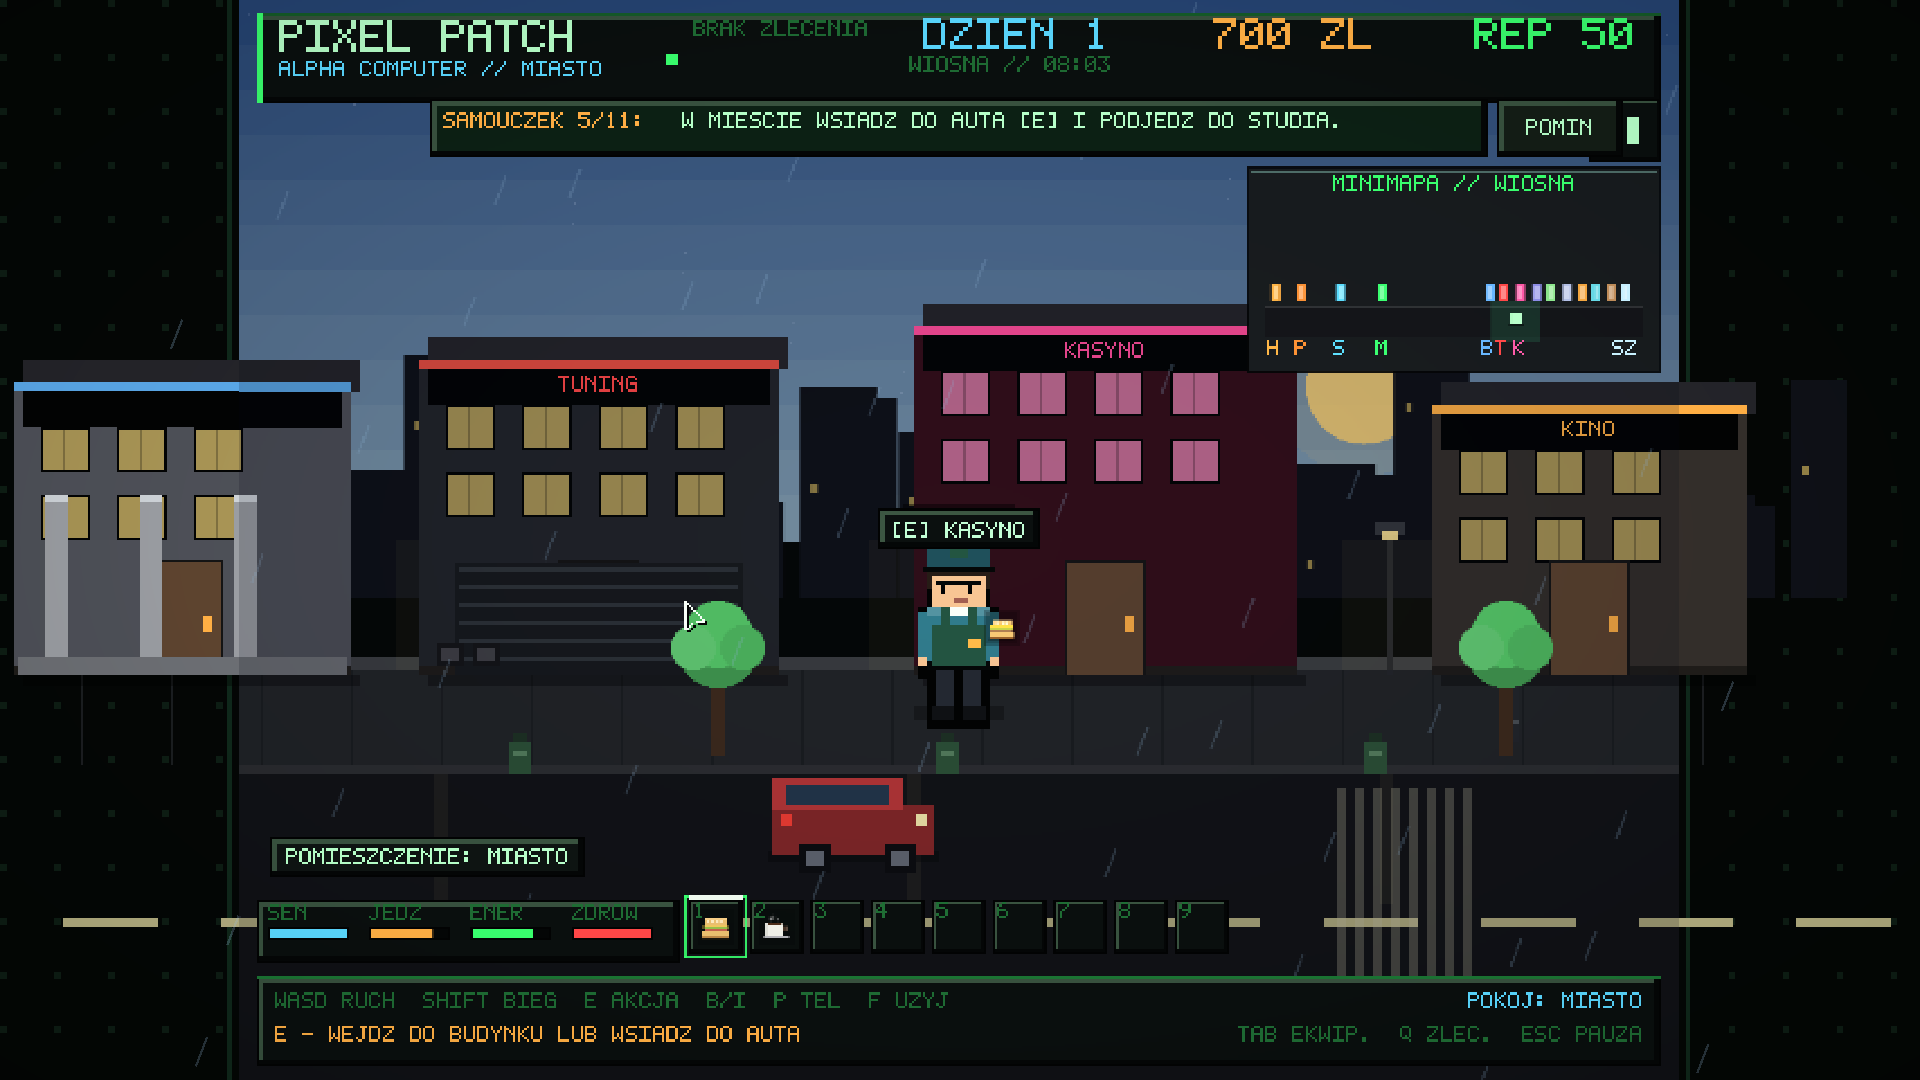
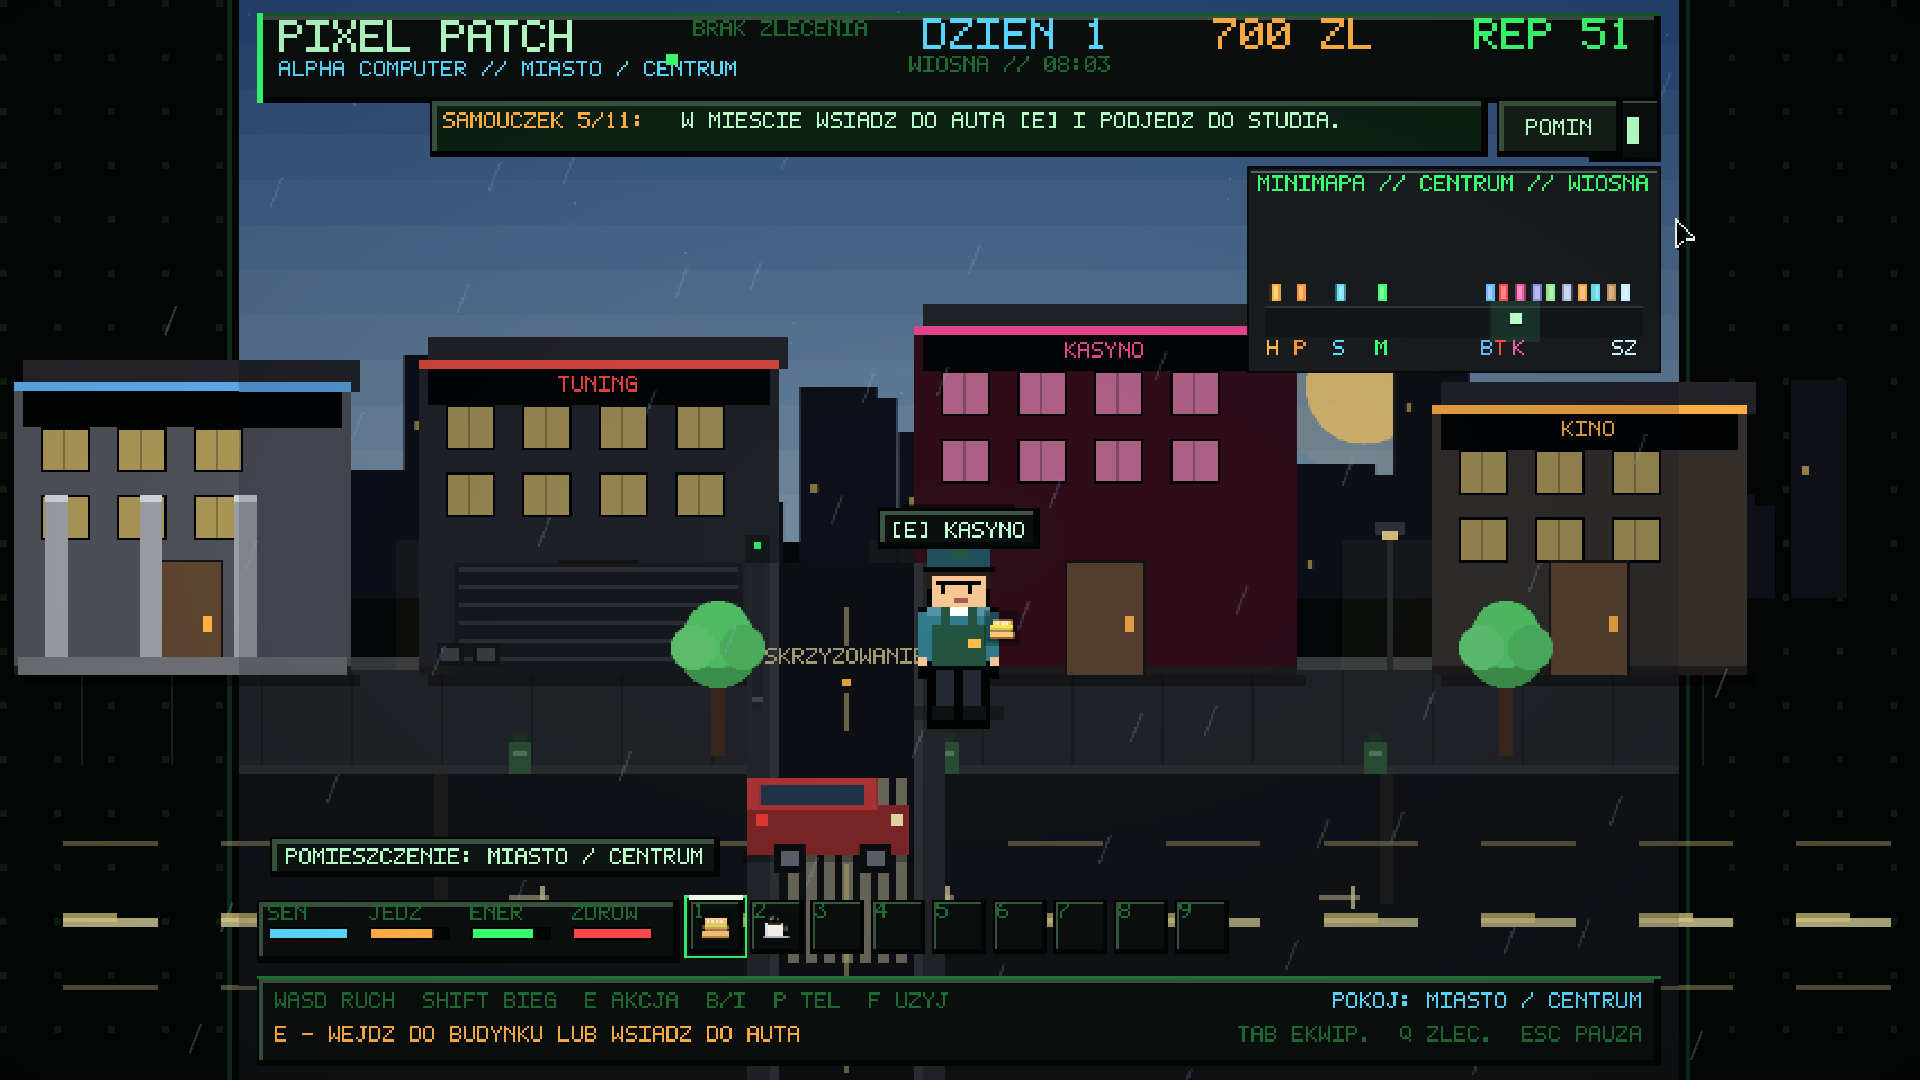
Snapshot 1: nowe mechaniki, wersja i screeny

diff --git a/index.html b/index.html
@@ -3,11 +3,11 @@
 <head>
   <meta charset="utf-8">
   <meta name="viewport" content="width=device-width, initial-scale=1">
-  <title>Pixel Patch — dwóch ziomków, rok, jedna gra</title>
+  <title>Pixel Patch — Snapshot 1. Dwóch ziomków, rok, jedna gra</title>
   <meta name="description" content="Pixel Patch to pixel-artowy symulator serwisu komputerowego. TZNsec i K2STUDIO rzucili sobie wyzwanie: w 365 dni zrobić grę od zera i doprowadzić ją do premiery na Steam. Zobacz devlog, wersje do pobrania i plan roku.">
   <meta name="theme-color" content="#050a08">
-  <meta property="og:title" content="Pixel Patch — dwóch ziomków, rok, jedna gra">
-  <meta property="og:description" content="Wyzwanie 365 dni: od pustego projektu do premiery na Steam. Pixel-artowy symulator serwisu komputerowego. Pobierz Alpha Computer.">
+  <meta property="og:title" content="Pixel Patch — Snapshot 1. Dwóch ziomków, rok, jedna gra">
+  <meta property="og:description" content="Wyzwanie 365 dni: od pustego projektu do premiery na Steam. Pixel-artowy symulator serwisu komputerowego. Pobierz Snapshot 1.">
   <meta property="og:type" content="website">
   <meta property="og:image" content="assets/alpha-coop.png">
   <link rel="icon" href="assets/logo.png" type="image/png">
@@ -21,7 +21,7 @@
     <div class="splash-inner">
       <div class="splash-brand">
         <img src="assets/logo.png" alt="" width="56" height="56">
-        <span class="splash-logo"><b>PIXEL PATCH</b><small>Alpha Computer · 0.11-alpha</small></span>
+        <span class="splash-logo"><b>PIXEL PATCH</b><small>Alpha Computer · Snapshot 1</small></span>
       </div>
 
       <div class="duo">
@@ -100,7 +100,7 @@
       <img src="assets/logo.png" alt="" width="42" height="42">
       <span>
         <b>PIXEL PATCH</b>
-        <small>Alpha Computer · 0.11-alpha</small>
+        <small>Alpha Computer · Snapshot 1</small>
       </span>
     </a>
 
@@ -123,7 +123,7 @@
     <!-- ============================ HERO ============================ -->
     <section class="hero wrap">
       <div class="hero-copy">
-        <p class="eyebrow"><span class="live-dot"></span> WYZWANIE 365 DNI · BUILD 0.11-ALPHA</p>
+        <p class="eyebrow"><span class="live-dot"></span> WYZWANIE 365 DNI · BUILD SNAPSHOT 1</p>
 
         <p class="hero-logo" aria-label="PIXEL PATCH">
           <canvas id="pixelLogo" width="480" height="64" aria-hidden="true">PIXEL PATCH</canvas>
@@ -136,7 +136,7 @@
         <div class="hero-day" style="--d:.68s">
           <span class="live-dot"></span>
           <span>DZIEŃ <b id="hero-day">1</b> Z 365</span>
-          <span class="hero-day-sub">publiczny build 0.11-alpha</span>
+          <span class="hero-day-sub">publiczny build Snapshot 1</span>
         </div>
 
         <p class="lead" style="--d:.80s">
@@ -148,7 +148,7 @@
         </p>
 
         <div class="hero-actions" style="--d:.92s">
-          <a class="btn btn-primary" href="#pobierz">Pobierz Alpha Computer</a>
+          <a class="btn btn-primary" href="#pobierz">Pobierz Snapshot 1</a>
           <a class="btn btn-ghost" href="#o-projekcie">Poznaj projekt</a>
         </div>
 
@@ -291,10 +291,11 @@
     <section class="section wrap" id="nowosci">
       <div class="section-head reveal">
         <p class="kicker">Nowości</p>
-        <h2>Alpha Computer 0.11-alpha</h2>
+        <h2>Alpha Computer — Snapshot 1</h2>
         <p class="lede">
-          Największy update od początku projektu. Doszła wspólna gra, zmieniło się
-          miasto, doszły wnętrza i pogoda. Poniżej rzeczy, które warto sprawdzić.
+          Największy skok mechanik od początku projektu. Płyta główna w naprawie,
+          prawdziwe skrzyżowania, podatki, umowy z podpisami i trzy dystrykty miasta.
+          Do tego późny poradnik i klient, który potrafi odrzucić zbyt droga ofertę.
         </p>
       </div>
 
@@ -315,6 +316,30 @@
         </article>
 
         <article class="update-card reveal">
+          <h3>Płyta główna pod ręką</h3>
+          <p>W naprawie widzisz PCB, CPU, RAM, GPU, PSU i dysk. Jakość, combo i błędy wpływają na wypłatę.</p>
+          <div class="mini-tags"><span>PCB</span><span>JAKOŚĆ</span><span>COMBO</span></div>
+        </article>
+
+        <article class="update-card reveal">
+          <h3>Skrzyżowania i prawdziwe pasy</h3>
+          <p>Drogi poprzeczne, przejścia i sygnalizacja. Auto trzyma się prawego pasa, można zawrócić i poczuć prędkość.</p>
+          <div class="mini-tags"><span>SKRZYŻOWANIA</span><span>PASY</span><span>F1</span></div>
+        </article>
+
+        <article class="update-card reveal">
+          <h3>Podatki i umowy</h3>
+          <p>Co tydzień urząd skarbowy wystawia podatek. W banku go zapłacisz, a każda naprawa kończy się umową z podpisem.</p>
+          <div class="mini-tags"><span>PODATKI</span><span>UMOWY</span><span>BANK</span></div>
+        </article>
+
+        <article class="update-card reveal">
+          <h3>Późny poradnik i dystrykty</h3>
+          <p>Po pierwszym zleceniu włącza się poradnik krok po kroku. Dworzec zmienia dystrykt: Centrum, Port i Stare Miasto.</p>
+          <div class="mini-tags"><span>PORADNIK</span><span>3 DYSTRYKTY</span></div>
+        </article>
+
+        <article class="update-card reveal">
           <h3>Dzień, noc i pory roku</h3>
           <p>Świt, południe, wieczór i noc. Wiosenny deszcz, letnie światło, jesienne liście i zimowy śnieg.</p>
           <div class="mini-tags"><span>DZIEŃ / NOC</span><span>4 PORY ROKU</span></div>
@@ -328,7 +353,7 @@
 
         <article class="update-card reveal">
           <h3>Jazda z mapą i zawracaniem</h3>
-          <p>Widok F1 ma minimapę, budynki po bokach i zawracanie (<kbd>R</kbd>). Przy hamowaniu <kbd>A/D</kbd> też obraca auto. Do tego smugi, wibracja i dopalacz przy dużej prędkości.</p>
+          <p>Minimapa, budynki po bokach i zawracanie (<kbd>R</kbd>). Do tego smugi, wibracja i dopalacz przy dużej prędkości.</p>
           <div class="mini-tags"><span>MINIMAPA</span><span>ZAWROT</span><span>EFEKTY</span></div>
         </article>
 
@@ -336,12 +361,6 @@
           <h3>Potrącenia i zdrowie</h3>
           <p>Na ulicy trzeba uważać. Auto może Cię potrącić, a w szpitalu zapłacisz za leczenie albo skorzystasz z NFZ.</p>
           <div class="mini-tags"><span>RYZYKO</span><span>SZPITAL</span></div>
-        </article>
-
-        <article class="update-card reveal">
-          <h3>Q na zlecenia</h3>
-          <p>Przełączasz aktywne zlecenie bez wchodzenia do warsztatu — na PC klawiszem <kbd>Q</kbd>, na telefonie przyciskiem.</p>
-          <div class="mini-tags"><span>PC</span><span>MOBILE</span></div>
         </article>
       </div>
     </section>
@@ -359,7 +378,25 @@
 
       <div class="versions">
         <article class="version-card version-new reveal">
-          <div class="vc-top"><span class="vc-tag new">NAJNOWSZA</span><span class="vc-ver">v0.11-alpha</span></div>
+          <div class="vc-top"><span class="vc-tag new">NAJNOWSZA</span><span class="vc-ver">v0.12-snapshot1</span></div>
+          <h3>Snapshot 1</h3>
+          <p class="vc-sub">Mechaniki, miasto i naprawy w jednym dużym skoku.</p>
+          <ul>
+            <li>Płyta główna, części, jakość i combo w naprawie</li>
+            <li>Skrzyżowania, pasy i prawy pas jazdy</li>
+            <li>Podatki, bank i umowy z podpisami</li>
+            <li>Późny poradnik krok po kroku</li>
+            <li>Trzy dystrykty: Centrum, Port, Stare Miasto</li>
+            <li>Klienci mogą odrzucić ofertę</li>
+          </ul>
+          <div class="vc-actions">
+            <a class="btn btn-primary" href="https://github.com/tznsec/PixelPatch/releases/download/v0.12-snapshot1/PixelPatch.exe">Pobierz PC</a>
+            <a class="btn btn-ghost" href="https://github.com/tznsec/PixelPatch/releases/download/v0.12-snapshot1/PixelPatch.apk">Pobierz APK</a>
+          </div>
+        </article>
+
+        <article class="version-card reveal">
+          <div class="vc-top"><span class="vc-tag">POPRZEDNIA</span><span class="vc-ver">v0.11-alpha</span></div>
           <h3>Alpha Computer</h3>
           <p class="vc-sub">Co-op, pogoda, wnętrza, minimapa i zdrowie.</p>
           <ul>
@@ -367,19 +404,17 @@
             <li>Dzień/noc i cztery pory roku</li>
             <li>Kasyno i szpital w środku</li>
             <li>Minimapa, zawracanie i efekty szybkiej jazdy</li>
-            <li>Potrącenia, zdrowie i leczenie</li>
-            <li>Q do przełączania zleceń</li>
           </ul>
           <div class="vc-actions">
-            <a class="btn btn-primary" href="https://github.com/tznsec/PixelPatch/releases/download/v0.11-alpha/PixelPatch.exe">Pobierz PC</a>
-            <a class="btn btn-ghost" href="https://github.com/tznsec/PixelPatch/releases/download/v0.11-alpha/PixelPatch.apk">Pobierz APK</a>
+            <a class="btn btn-ghost" href="https://github.com/tznsec/PixelPatch/releases/download/v0.11-alpha/PixelPatch.exe">PC</a>
+            <a class="btn btn-ghost" href="https://github.com/tznsec/PixelPatch/releases/download/v0.11-alpha/PixelPatch.apk">APK</a>
           </div>
         </article>
 
         <article class="version-card reveal">
-          <div class="vc-top"><span class="vc-tag">POPRZEDNIA</span><span class="vc-ver">v0.10-alpha</span></div>
+          <div class="vc-top"><span class="vc-tag old">STARSZA</span><span class="vc-ver">v0.10-alpha</span></div>
           <h3>Alpha Computer</h3>
-          <p class="vc-sub">Pierwszy duży update: telefon, pracownicy, tiered magazyn i F1.</p>
+          <p class="vc-sub">Telefon, pracownicy, magazyn tierów i widok F1.</p>
           <ul>
             <li>Naprawy dotykowe na Androidzie</li>
             <li>Pracownicy i auto-naprawa</li>
@@ -393,7 +428,7 @@
         </article>
 
         <article class="version-card reveal">
-          <div class="vc-top"><span class="vc-tag old">STARSZA</span><span class="vc-ver">v0.9.7</span></div>
+          <div class="vc-top"><span class="vc-tag old">ARCHIWALNA</span><span class="vc-ver">v0.9.7</span></div>
           <h3>Garage Days</h3>
           <p class="vc-sub">Początek projektu. Zostaje online.</p>
           <ul>
@@ -426,6 +461,18 @@
         <button class="shot reveal" data-src="assets/alpha-coop.png" aria-label="Powiększ: wspólna gra">
           <img src="assets/alpha-coop.png" alt="Wspólna gra i auto innego gracza" loading="lazy" width="1280" height="960">
           <span>Co-op · V0idVex i Kormeliuszk</span>
+        </button>
+        <button class="shot reveal" data-src="assets/snapshot-repair.png" aria-label="Powiększ: płyta główna w naprawie">
+          <img src="assets/snapshot-repair.png" alt="Płyta główna i części w naprawie" loading="lazy" width="1280" height="960">
+          <span>Naprawa · płyta główna</span>
+        </button>
+        <button class="shot reveal" data-src="assets/snapshot-contracts.png" aria-label="Powiększ: umowy i podpisy">
+          <img src="assets/snapshot-contracts.png" alt="Umowy i podpisy klientów" loading="lazy" width="1280" height="960">
+          <span>Umowy i podpisy</span>
+        </button>
+        <button class="shot reveal" data-src="assets/snapshot-district.png" aria-label="Powiększ: dystrykt Port">
+          <img src="assets/snapshot-district.png" alt="Dystrykt Port w mieście" loading="lazy" width="1280" height="960">
+          <span>Dystrykt Port</span>
         </button>
         <button class="shot reveal" data-src="assets/alpha-city.png" aria-label="Powiększ: miasto w dzień">
           <img src="assets/alpha-city.png" alt="Miasto w dzień" loading="lazy" width="1280" height="960">
@@ -463,7 +510,7 @@
         </details>
         <details class="reveal">
           <summary>Czy da się grać we dwójkę?</summary>
-          <p>Tak. W 0.11-alpha jest co-op przez LAN lub Tailscale: wspólny portfel, te same zlecenia, czat i auta innych graczy. Na PC czat otwierasz klawiszem T.</p>
+          <p>Tak. W Snapshot 1 jest co-op przez LAN lub Tailscale: wspólny portfel, te same zlecenia, czat i auta innych graczy. Na PC czat otwierasz klawiszem T.</p>
         </details>
         <details class="reveal">
           <summary>Dlaczego APK jest debug?</summary>
@@ -471,7 +518,7 @@
         </details>
         <details class="reveal">
           <summary>Co się dzieje ze starszymi wersjami?</summary>
-          <p>Zostają na GitHub Releases. Możesz pobrać 0.10-alpha albo 0.9.7 i porównać, jak gra wyglądała wcześniej.</p>
+          <p>Zostają na GitHub Releases. Możesz pobrać 0.11-alpha, 0.10-alpha albo 0.9.7 i porównać, jak gra wyglądała wcześniej.</p>
         </details>
         <details class="reveal">
           <summary>Jak śledzić postęp?</summary>
@@ -485,14 +532,14 @@
       <div class="download-card reveal">
         <div>
           <p class="kicker">Pobierz</p>
-          <h2>Zagraj w Alpha Computer 0.11-alpha</h2>
+          <h2>Zagraj w Alpha Computer — Snapshot 1</h2>
           <p>
-            Windows 10/11 x64 albo Android 7+ (arm64). Najnowszy build zawiera
-            co-op, pogodę, wnętrza i minimapę. Starsze wersje są niżej.
+            Windows 10/11 x64 albo Android 7+ (arm64). Snapshot 1 zawiera płytę główną,
+            skrzyżowania, podatki, umowy i trzy dystrykty. Starsze wersje są niżej.
           </p>
           <div class="download-actions">
-            <a class="btn btn-primary" href="https://github.com/tznsec/PixelPatch/releases/download/v0.11-alpha/PixelPatch.exe">Pobierz na PC</a>
-            <a class="btn btn-ghost" href="https://github.com/tznsec/PixelPatch/releases/download/v0.11-alpha/PixelPatch.apk">Pobierz APK</a>
+            <a class="btn btn-primary" href="https://github.com/tznsec/PixelPatch/releases/download/v0.12-snapshot1/PixelPatch.exe">Pobierz na PC</a>
+            <a class="btn btn-ghost" href="https://github.com/tznsec/PixelPatch/releases/download/v0.12-snapshot1/PixelPatch.apk">Pobierz APK</a>
             <a class="btn btn-text" href="https://github.com/tznsec/PixelPatch/releases" target="_blank" rel="noopener">Wszystkie wydania ↗</a>
           </div>
         </div>

diff --git a/script.js b/script.js
@@ -28,7 +28,7 @@
   // ------------------------------------------------------------ odliczanie
   const START = new Date(2026, 9, 25, 0, 0, 0); // 25.10.2026
   const END = new Date(2027, 9, 25, 0, 0, 0);   // 25.10.2027
-  const BUILD_DATE = new Date(2026, 9, 26, 0, 0, 0); // build 0.11-alpha
+  const BUILD_DATE = new Date(2026, 9, 27, 0, 0, 0); // build Snapshot 1
 
   const cdD = document.getElementById("cd-d");
   const cdH = document.getElementById("cd-h");

diff --git a/pixel-intro.js b/pixel-intro.js
@@ -6,7 +6,7 @@
   const splash = document.getElementById("splash");
   const splashSkip = document.getElementById("splash-skip");
   const replayIntro = document.getElementById("replay-intro");
-  const INTRO_KEY = "pixel_patch_intro_11";
+  const INTRO_KEY = "pixel_patch_intro_12";
   let introTimers = [];
   let heroStarted = false;
 

diff --git a/styles.css b/styles.css
@@ -639,7 +639,7 @@ kbd {
 /* ------------------------------------------------------------ versions */
 .versions {
   display: grid;
-  grid-template-columns: repeat(3, minmax(0, 1fr));
+  grid-template-columns: repeat(2, minmax(0, 1fr));
   gap: 12px;
 }
 .version-card {

diff --git a/README.md b/README.md
@@ -1,38 +1,39 @@
-# Pixel Patch: Alpha Computer
+# Pixel Patch: Alpha Computer — Snapshot 1
 
-Pixel-artowy symulator serwisu komputerowego. **Alpha Computer** to najnowsza wersja gry; starsze **Garage Days** i poprzednie buildy zostają online.
+Pixel-artowy symulator serwisu komputerowego. **Snapshot 1** to najnowsza wersja Alpha Computer; starsze buildy zostają online.
 
 - **Strona:** https://tznsec.github.io/PixelPatch/
+- **Snapshot 1 (v0.12-snapshot1):**
+  - PC: https://github.com/tznsec/PixelPatch/releases/download/v0.12-snapshot1/PixelPatch.exe
+  - Android: https://github.com/tznsec/PixelPatch/releases/download/v0.12-snapshot1/PixelPatch.apk
 - **Alpha Computer 0.11-alpha:**
   - PC: https://github.com/tznsec/PixelPatch/releases/download/v0.11-alpha/PixelPatch.exe
   - Android: https://github.com/tznsec/PixelPatch/releases/download/v0.11-alpha/PixelPatch.apk
-- **Alpha Computer 0.10-alpha:**
-  - PC: https://github.com/tznsec/PixelPatch/releases/download/v0.10-alpha/PixelPatch.exe
-  - Android: https://github.com/tznsec/PixelPatch/releases/download/v0.10-alpha/PixelPatch.apk
 - **Garage Days 0.9.7:**
   - PC: https://github.com/tznsec/PixelPatch/releases/download/v0.9.7/PixelPatch.exe
   - Android: https://github.com/tznsec/PixelPatch/releases/download/v0.9.7/PixelPatch.apk
 
 ## Wyzwanie
 
-TZNsec i K2STUDIO rzucili sobie wyzwanie: w 365 dni zrobić grę od zera i doprowadzić ją do premiery na Steam. Pixel Patch jest publicznym zapisem tej drogi — kolejne buildy, devlog i liczniki projektu.
+TZNsec i K2STUDIO wybrały po jednym przedstawicielu — **V0idVex** i **Kormeliuszk**. To oni rzucili sobie wyzwanie: w 365 dni zrobić grę od zera i doprowadzić ją do premiery na Steam. Pixel Patch jest publicznym zapisem tej drogi.
 
-## Co nowego w 0.11-alpha
+## Co nowego w Snapshot 1
 
-- **Co-op** — wspólny portfel, te same zlecenia, czat `T`, wymiana pieniędzy `E` na innym graczu.
-- **Auta innych graczy** — widoczne w mieście i w widoku jazdy.
-- **Minimapa i budynki** — w widoku F1 widać trasę, przystanki i odległość do najbliższego budynku.
-- **Dzień i noc oraz 4 pory roku** — deszcz, liście, śnieg, światła i zmiana nieba.
-- **Wnętrza kasyna i szpitala** — automaty, ruletka, bar, lekarz, łóżko i apteka.
-- **Zdrowie i potrącenia** — auta mogą potrącić gracza, szpital leczy.
-- **Q do przełączania zleceń** — na PC i przyciskiem na mobile.
-- **Szlif HUD i układu ekranu.**
+- **Płyta główna w naprawie** — widać PCB, CPU, RAM, GPU, PSU i dysk; aktywny podzespół jest podświetlony.
+- **Jakość naprawy** — combo, błędy i jakość wpływają na bonus do wypłaty.
+- **Skrzyżowania i pasy** — drogi poprzeczne, przejścia, sygnalizacja i poprawne pasy ruchu.
+- **Auto na pasie** — prawy pas, zawracanie `R` / `A-D` przy hamowaniu, efekty szybkiej jazdy.
+- **Późny poradnik** — po pierwszym zleceniu prowadzi krok po kroku przez recepcję, warsztat, części, umowę i podatek.
+- **Podatki i bank** — cotygodniowy podatek, termin i kara; płatność w banku.
+- **Umowy z podpisami** — każda skończona naprawa tworzy umowę z kwotą, jakością i podpisem.
+- **Trzy dystrykty** — Centrum, Port i Stare Miasto; zmiana na dworcu.
+- **Klienci mogą odrzucić ofertę** — zbyt agresywna cena może zakończyć negocjację.
 
 ## Sterowanie
 
-PC: WASD/strzałki — ruch, Shift — bieg, E — akcja, Tab — ekwipunek, P — telefon, B — warsztat, I — sklep, F — użycie, 1–9 — hotbar, Q — zmiana zlecenia, T — czat (multiplayer), F5/F9 — zapis/odczyt.
+PC: WASD/strzałki — ruch, Shift — bieg, E — akcja, Tab — ekwipunek, P — telefon, B — warsztat, I — sklep, F — użycie, 1–9 — hotbar, Q — zmiana zlecenia, R — zawrócenie auta, T — czat (multiplayer), F5/F9 — zapis/odczyt.
 
-Android: joystick, TEL / UZYJ / EKWIP. / AKCJA / Q ZLEC. / CZAT, X w menu, II — pauza, dotyk w minigrach naprawy.
+Android: joystick, TEL / UZYJ / EKWIP. / AKCJA / Q ZLEC. / CZAT / ZAWROT, X w menu, II — pauza, dotyk w minigrach naprawy.
 
 ## Struktura
 
@@ -52,4 +53,4 @@ Godot 4.7.2, GL Compatibility. Eksport: Windows x86_64 i Android arm64 (debug AP
 
 ## Credits
 
-TZNsec & K2STUDIO. Strona i buildy: GitHub Pages + GitHub Releases.
+TZNsec & K2STUDIO · V0idVex & Kormeliuszk. Strona i buildy: GitHub Pages + GitHub Releases.
